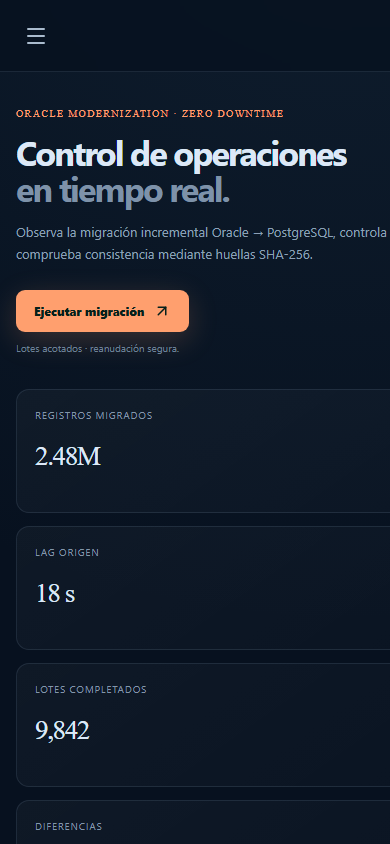
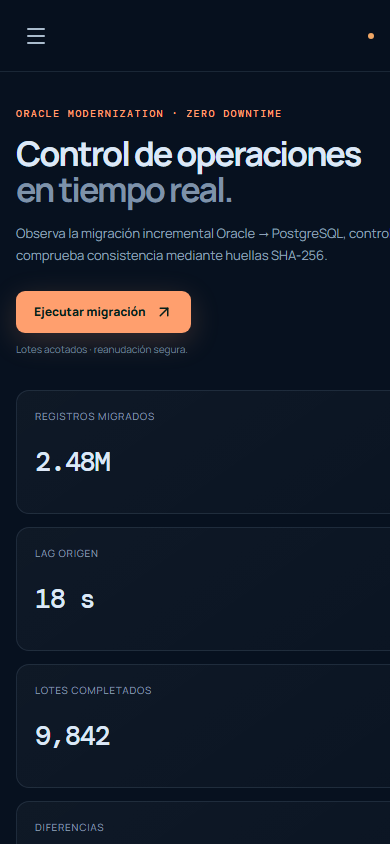
docs(portfolio): add per-view evidence and real GitFlow

diff --git a/frontend/src/App.tsx b/frontend/src/App.tsx
@@ -10,6 +10,7 @@ type ApiState = 'checking'|'online'|'offline';
 type Theme = 'dark'|'light';
 
 const icons = [Activity, Boxes, Server, ShieldCheck, Gauge];
+const portfolioRelease = project.name === 'OrderFlow' ? 'v0.4.0' : 'v0.3.0';
 
 export default function App() {
   const params = new URLSearchParams(window.location.search);
@@ -52,7 +53,7 @@ export default function App() {
       <button className="close" aria-label="Cerrar menú" onClick={()=>setMobile(false)}><X/></button>
       <div className="brand"><span className="brand-mark">{project.initials}</span><div><b>{project.name}</b><small>Operations</small></div></div>
       <nav>{project.nav.map((item,index)=>{const Icon=icons[index]??Server;return <button className={index===activeView?'active':''} aria-current={index===activeView?'page':undefined} onClick={()=>selectView(index)} key={item}><span><Icon size={17}/></span>{item}</button>})}</nav>
-      <div className="sidebar-card"><Command size={19}/><b>Java Platform</b><p>Cinco vistas operativas con evidencia reproducible.</p><span>release {project.release ?? 'portfolio'}</span></div>
+      <div className="sidebar-card"><Command size={19}/><b>Java Platform</b><p>Cinco vistas operativas con evidencia reproducible.</p><span>release {project.release ?? portfolioRelease}</span></div>
       <div className="profile"><span>AR</span><div><b>Andrea R.</b><small>Platform operator</small></div></div>
     </aside>
     <main>

diff --git a/README.md b/README.md
@@ -14,7 +14,7 @@ reanudación y reconciliación verificable.</i></p>
   <img src="https://img.shields.io/badge/Oracle-origen-F80000?logo=oracle&logoColor=white" alt="Oracle">
   <img src="https://img.shields.io/badge/PostgreSQL-destino-4169E1?logo=postgresql&logoColor=white" alt="PostgreSQL">
   <img src="https://img.shields.io/badge/Linux-systemd-FCC624?logo=linux&logoColor=black" alt="Linux">
-  <img src="https://img.shields.io/badge/pruebas-3_aprobadas-2EAD33" alt="3 pruebas">
+  <img src="https://img.shields.io/badge/pruebas-4_aprobadas-2EAD33" alt="4 pruebas">
   <a href="LICENSE"><img src="https://img.shields.io/badge/licencia-MIT-blue" alt="MIT"></a>
 </p>
 
@@ -63,9 +63,15 @@ sintéticos; la UI indica que funciona en modo demostración.
 
 ## Capturas
 
-| Escritorio | Móvil |
-|---|---|
-| <img src="docs/screenshots/dashboard-desktop.png" alt="LegacyCore escritorio" width="620"> | <img src="docs/screenshots/dashboard-mobile.png" alt="LegacyCore móvil" width="230"> |
+| Pantalla | Claro | Oscuro |
+|---|---|---|
+| Migration center | ![Migration center claro](docs/screenshots/01-migration-center-light.png) | ![Migration center oscuro](docs/screenshots/01-migration-center-dark.png) |
+| Checkpoints | ![Checkpoints claro](docs/screenshots/02-checkpoints-light.png) | ![Checkpoints oscuro](docs/screenshots/02-checkpoints-dark.png) |
+| Reconciliación | ![Reconciliación clara](docs/screenshots/03-reconciliacion-light.png) | ![Reconciliación oscura](docs/screenshots/03-reconciliacion-dark.png) |
+| Ejecuciones | ![Ejecuciones claras](docs/screenshots/04-ejecuciones-light.png) | ![Ejecuciones oscuras](docs/screenshots/04-ejecuciones-dark.png) |
+| Auditoría | ![Auditoría clara](docs/screenshots/05-auditoria-light.png) | ![Auditoría oscura](docs/screenshots/05-auditoria-dark.png) |
+
+<p align="center"><img src="docs/screenshots/dashboard-mobile.png" alt="LegacyCore móvil" width="230"></p>
 
 ---
 
@@ -167,6 +173,9 @@ cd frontend && npm ci && npm test && npm run build
 ---
 
 ## GitFlow
+
+El gráfico reproduce el historial real hasta `v0.3.0`: integración, hotfix,
+evidencia documental, releases etiquetadas y merges de retorno.
 
 <p align="center">
   <img src="diagrams/rendered/gitflow.svg" alt="GitFlow LegacyCore" width="760">

diff --git a/docs/README.md b/docs/README.md
@@ -3,7 +3,7 @@
 | Recurso | Contenido |
 |---|---|
 | [Arquitectura](ARCHITECTURE.md) | Watermarks, checkpoints, upsert y reconciliación |
-| [Capturas](screenshots) | Centro de migración en escritorio y móvil |
+| [Capturas](screenshots) | Cinco vistas en temas claro/oscuro y evidencia móvil |
 | [Diagramas](../diagrams) | Arquitectura, migración y GitFlow |
 | [Operación Linux](../ops) | Unidad systemd y soporte operativo |
 | [Infraestructura](../infra) | Recursos asociados al despliegue |
